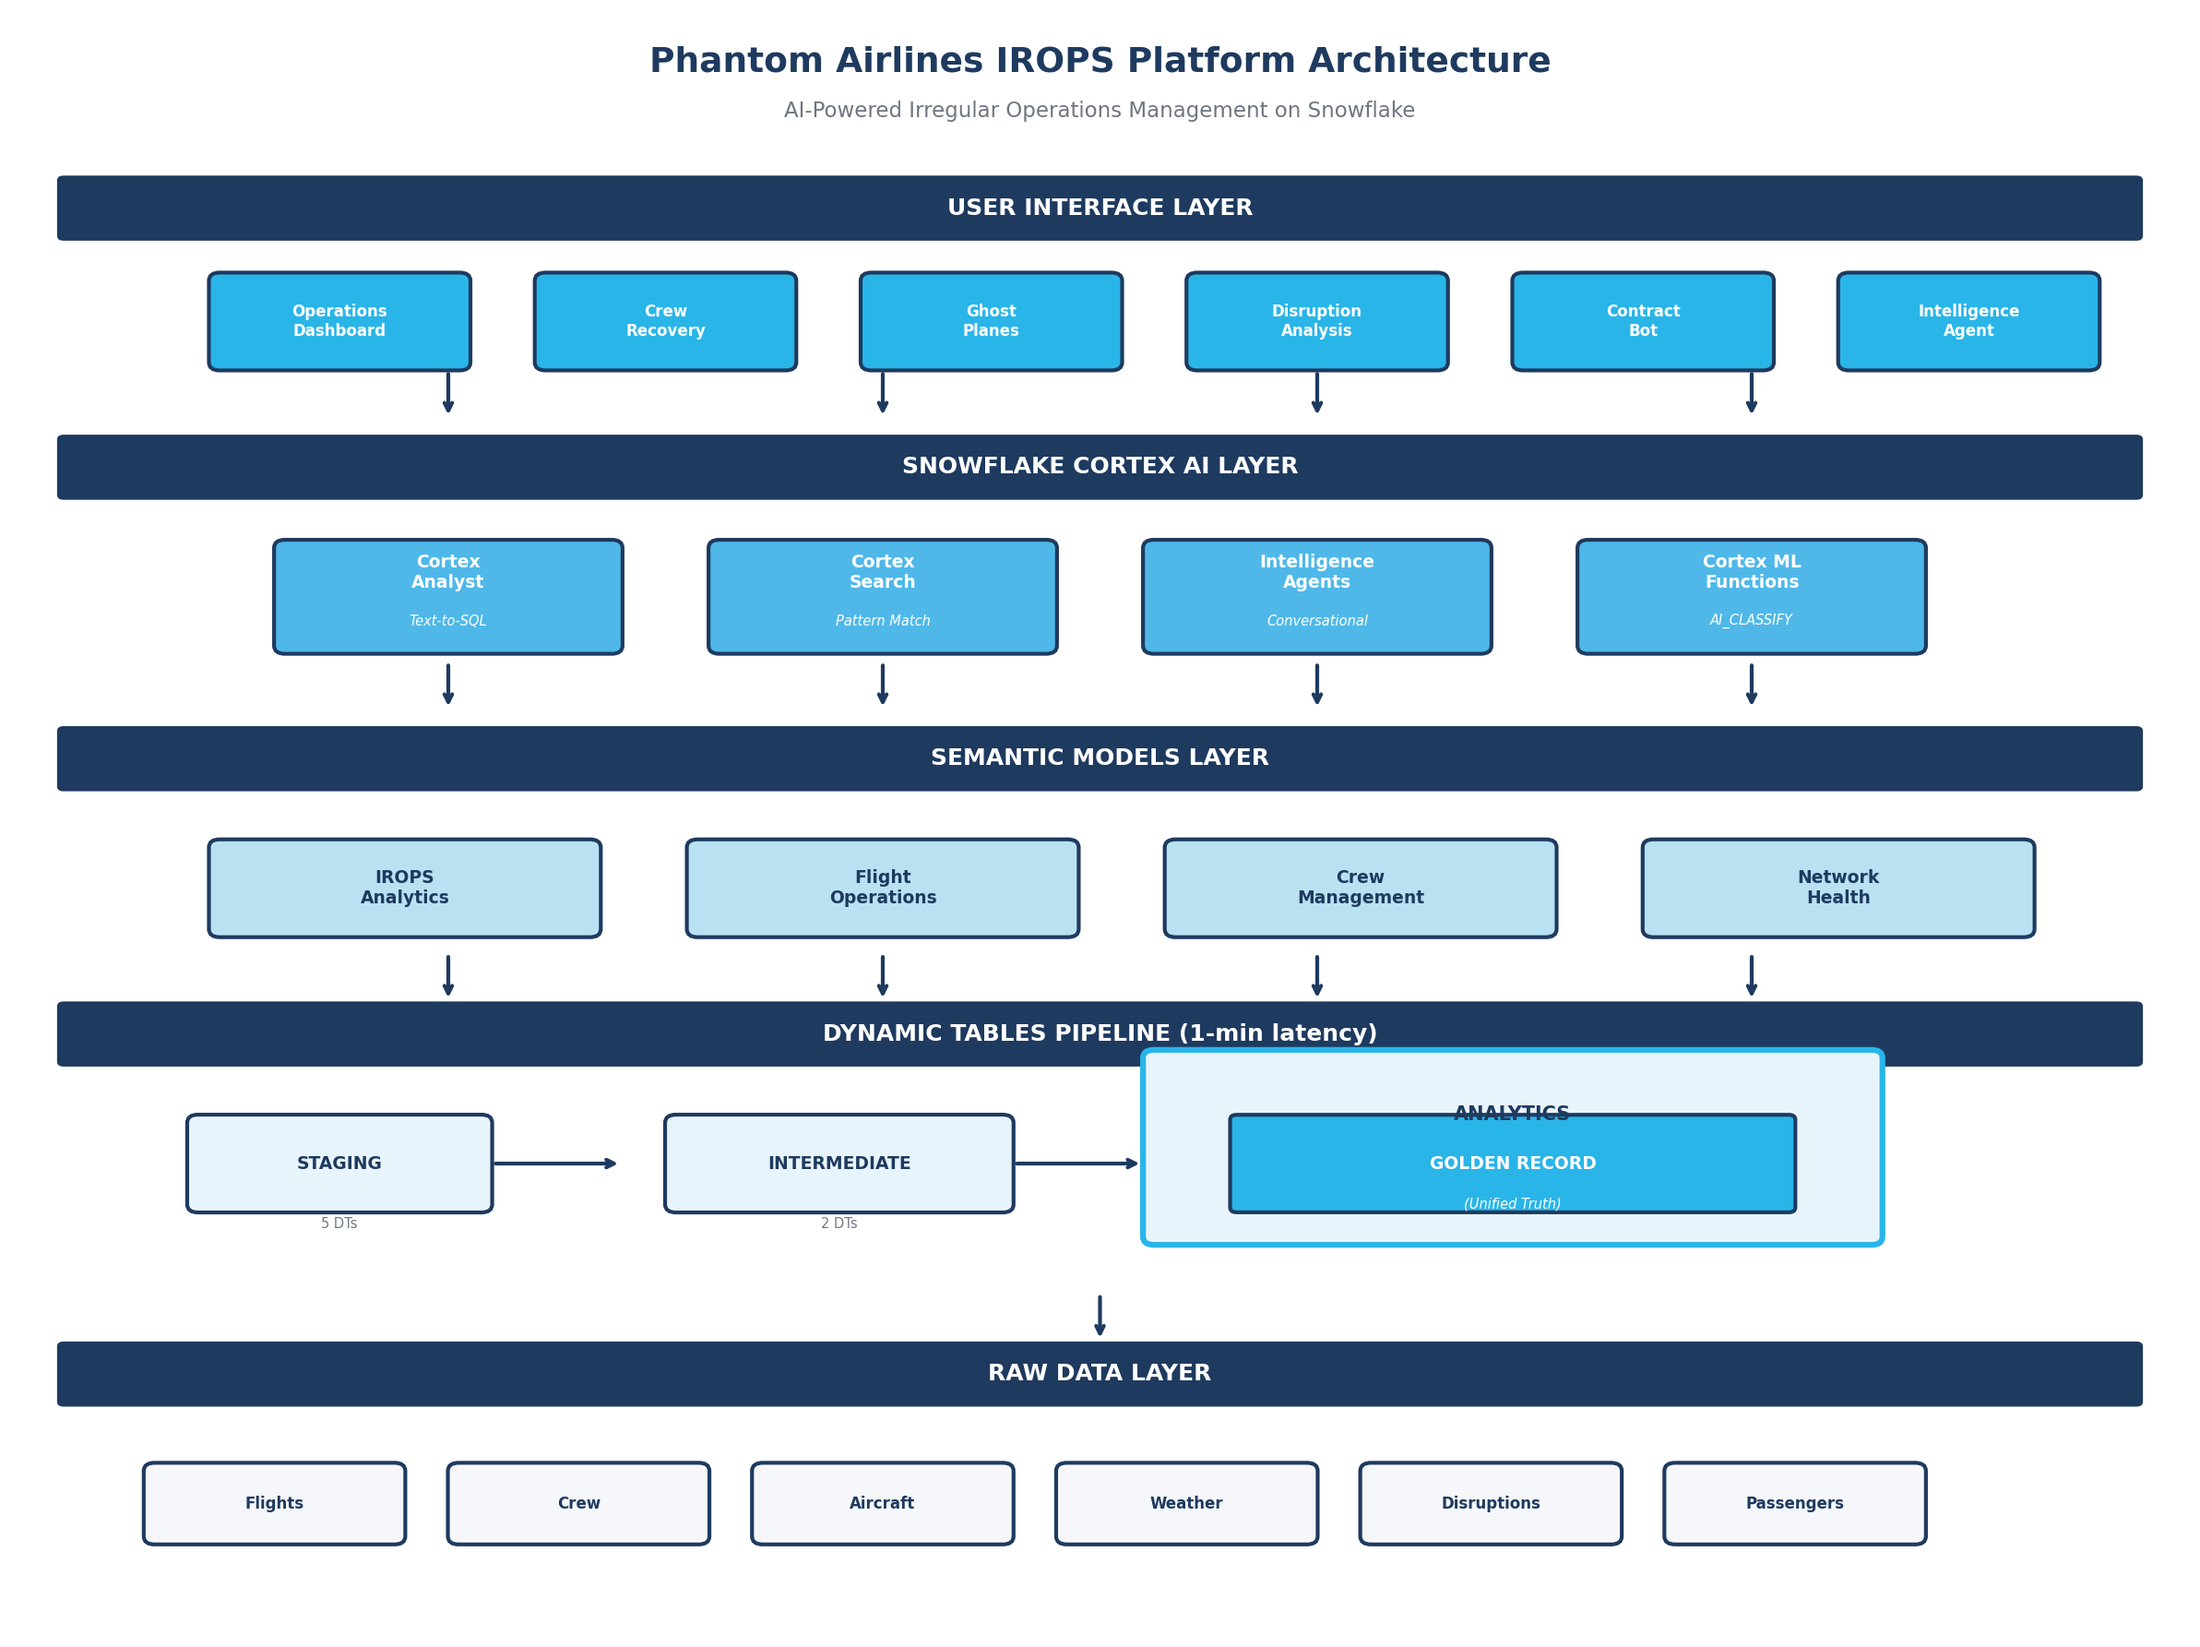
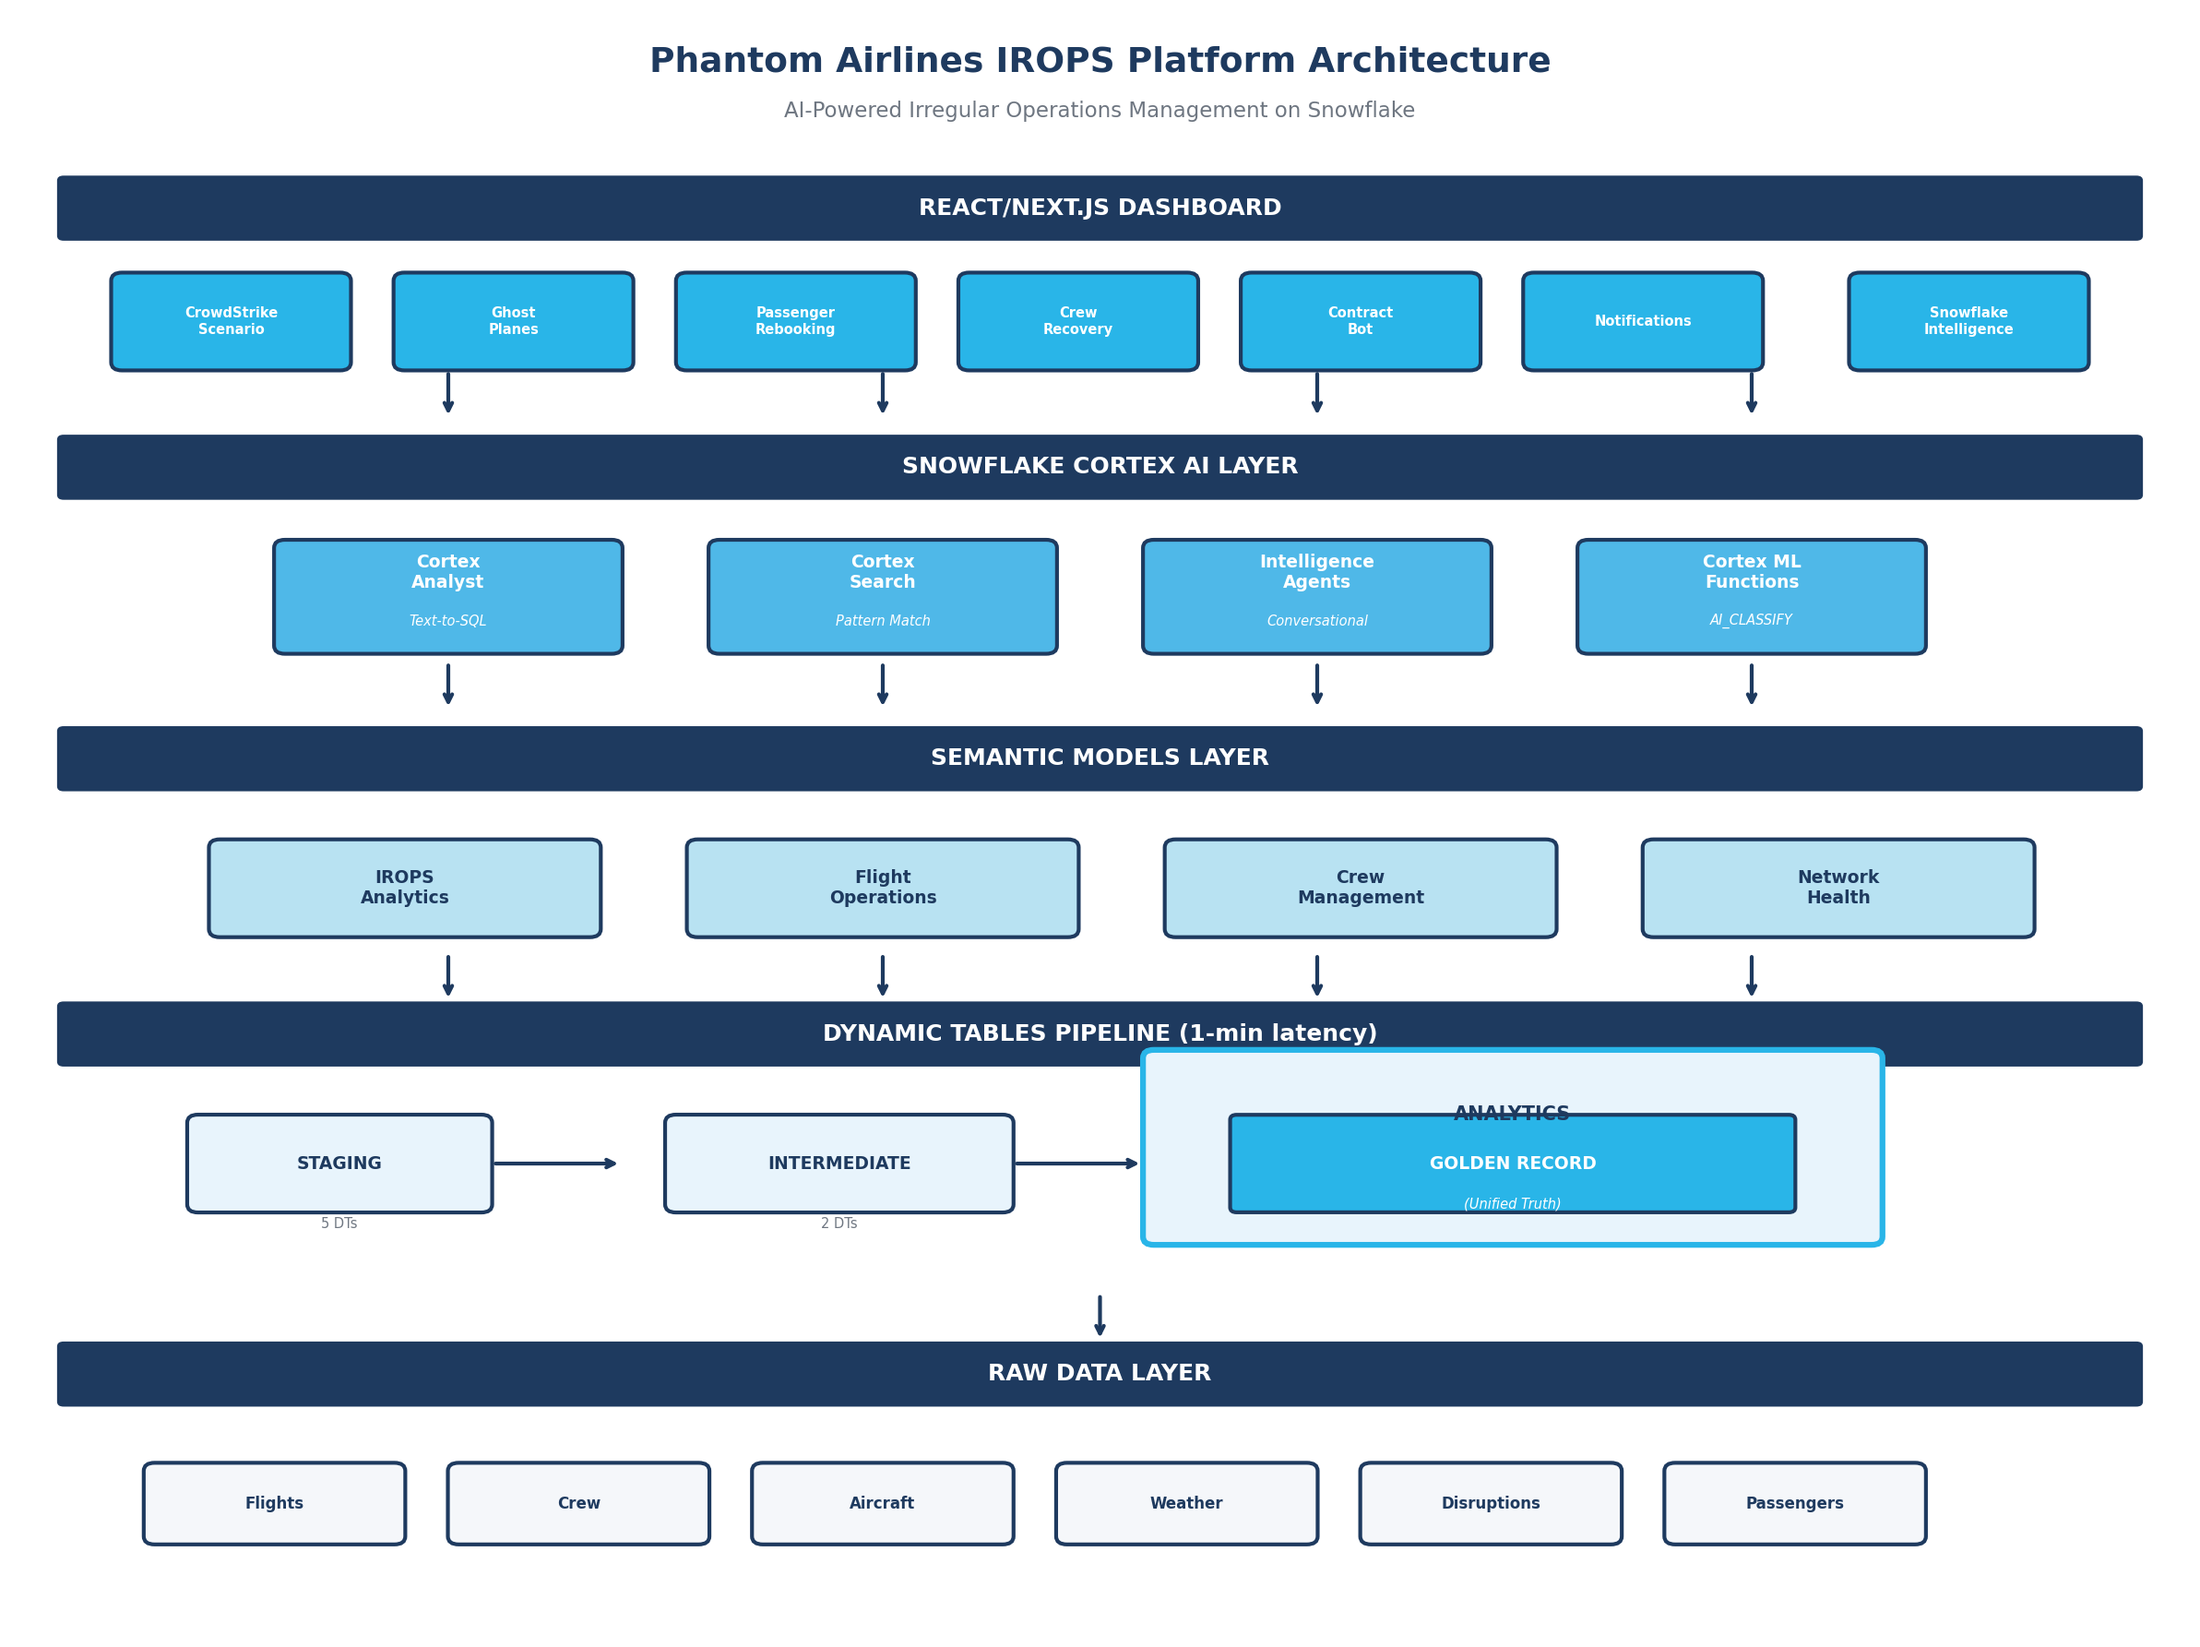
Update architecture diagrams to show React/Next.js dashboard
- Modified generate_diagrams.py to show REACT/NEXT.JS DASHBOARD header
- Updated UI components to show all 7 features: CrowdStrike Scenario, Ghost Planes, Passenger Rebooking, Crew Recovery, Contract Bot, Notifications, Snowflake Intelligence
- Regenerated architecture_overview.png and architecture_diagram.jpg

.... Generated with [Cortex Code](https://docs.snowflake.com/user-guide/snowflake-cortex/cortex-agents)

diff --git a/solution_presentation/generate_diagrams.py b/solution_presentation/generate_diagrams.py
@@ -89,13 +89,13 @@ def create_architecture_diagram():
             ha='center', va='center', fontsize=11, color=COLORS['gray'])
     
     # Layer 1: User Interface (Top)
-    draw_section_header(ax, 88, 'USER INTERFACE LAYER')
+    draw_section_header(ax, 88, 'REACT/NEXT.JS DASHBOARD')
     ui_components = [
-        ('Operations\nDashboard', 15), ('Crew\nRecovery', 30), ('Ghost\nPlanes', 45),
-        ('Disruption\nAnalysis', 60), ('Contract\nBot', 75), ('Intelligence\nAgent', 90)
+        ('CrowdStrike\nScenario', 10), ('Ghost\nPlanes', 23), ('Passenger\nRebooking', 36),
+        ('Crew\nRecovery', 49), ('Contract\nBot', 62), ('Notifications', 75), ('Snowflake\nIntelligence', 90)
     ]
     for label, x in ui_components:
-        draw_box(ax, x, 81, 12, 6, label, COLORS['primary_blue'], fontsize=8)
+        draw_box(ax, x, 81, 11, 6, label, COLORS['primary_blue'], fontsize=7)
     
     # Layer 2: Snowflake Cortex AI
     draw_section_header(ax, 72, 'SNOWFLAKE CORTEX AI LAYER')
